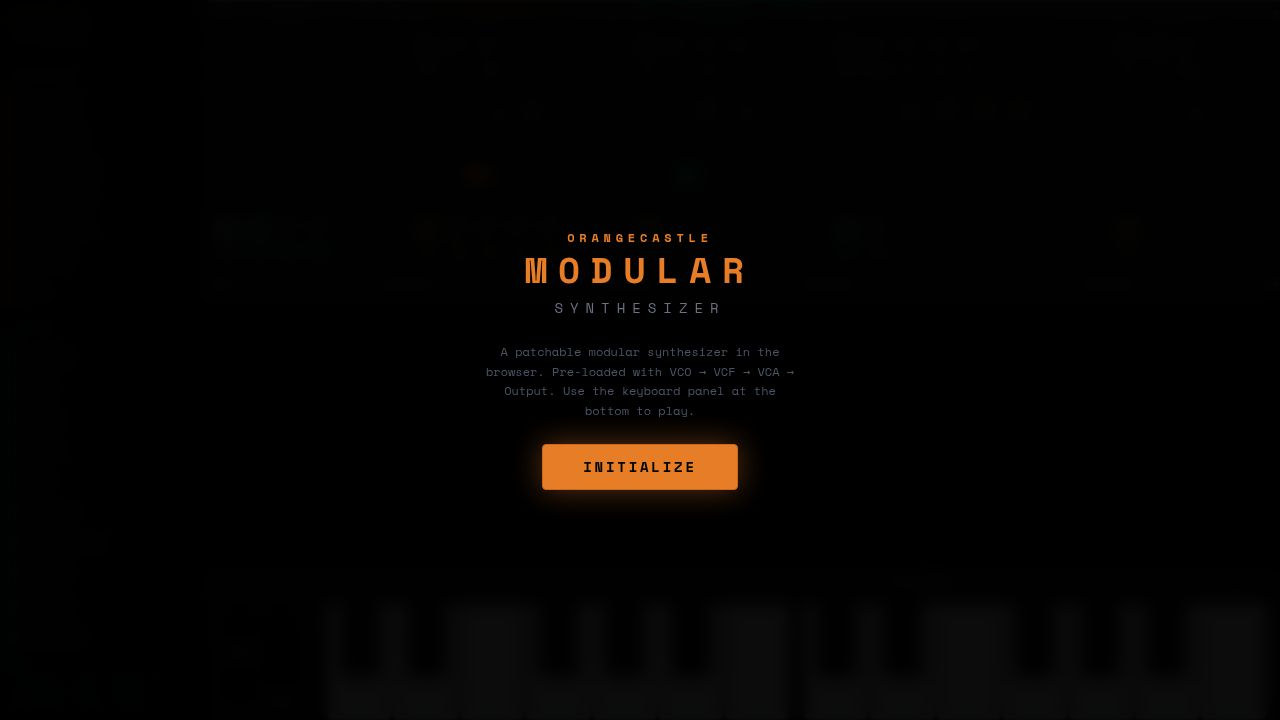
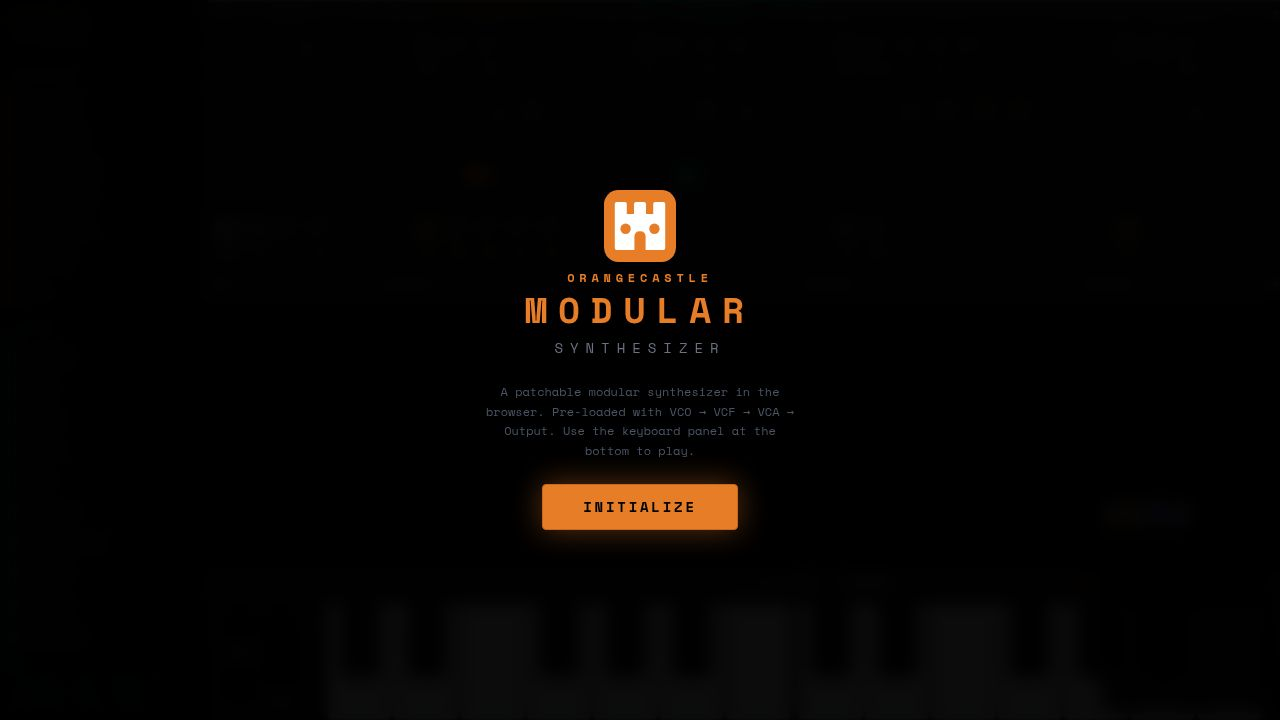
Add a minimap and pan mode to the modular synth interface
Introduce a minimap component for navigation and a pan mode for easier canvas manipulation.

Replit-Commit-Author: Agent
Replit-Commit-Session-Id: 9c9eb7d9-9085-47da-a189-169fb7c718bb
Replit-Commit-Checkpoint-Type: full_checkpoint
Replit-Commit-Event-Id: 4760d34d-3cd2-44ac-a672-b2c29dfe9315
Replit-Commit-Screenshot-Url: https://storage.googleapis.com/screenshot-production-us-central1/338c9ae4-9eaa-4246-b9eb-8b16b2420b90/9c9eb7d9-9085-47da-a189-169fb7c718bb/yjl8Aqb
Replit-Helium-Checkpoint-Created: true

Changed region(s): [[0.375, 0.2444, 0.5938, 0.7639], [0.5938, 0.4889, 0.625, 0.5194]]

diff --git a/artifacts/modular-synth/src/pages/synth-app.tsx b/artifacts/modular-synth/src/pages/synth-app.tsx
@@ -970,6 +970,119 @@ function useMIDI(
   return { status, deviceCount };
 }
 
+// ─── Minimap ──────────────────────────────────────────────────────────────────
+const MINI_W = 164;
+const MINI_H = Math.round(MINI_W * CONTENT_H / CONTENT_W); // ≈205
+
+function Minimap({
+  modules,
+  rackRef,
+}: {
+  modules: ModuleInstance[];
+  rackRef: React.RefObject<HTMLDivElement | null>;
+}) {
+  const scaleX = MINI_W / CONTENT_W;
+  const scaleY = MINI_H / CONTENT_H;
+  const [scroll, setScroll]   = useState({ left: 0, top: 0 });
+  const [viewSize, setViewSize] = useState({ w: 0, h: 0 });
+  const miniDragRef = useRef(false);
+
+  useEffect(() => {
+    const el = rackRef.current;
+    if (!el) return;
+    const update = () => {
+      setScroll({ left: el.scrollLeft, top: el.scrollTop });
+      setViewSize({ w: el.clientWidth, h: el.clientHeight });
+    };
+    update();
+    el.addEventListener('scroll', update, { passive: true });
+    window.addEventListener('resize', update, { passive: true });
+    return () => {
+      el.removeEventListener('scroll', update);
+      window.removeEventListener('resize', update);
+    };
+  }, [rackRef]);
+
+  const navigateTo = (e: React.MouseEvent<HTMLDivElement>) => {
+    const el = rackRef.current;
+    if (!el) return;
+    const rect = e.currentTarget.getBoundingClientRect();
+    const mx = e.clientX - rect.left;
+    const my = e.clientY - rect.top;
+    el.scrollLeft = Math.max(0, mx / scaleX - viewSize.w / 2);
+    el.scrollTop  = Math.max(0, my / scaleY - Math.max(0, viewSize.h - KB_H) / 2);
+  };
+
+  const vpW = Math.min(MINI_W, viewSize.w * scaleX);
+  const vpH = Math.min(MINI_H, Math.max(0, viewSize.h - KB_H) * scaleY);
+
+  return (
+    <div
+      style={{
+        position: 'absolute', bottom: 12, right: 12,
+        width: MINI_W, height: MINI_H,
+        background: 'rgba(8,8,8,0.93)',
+        border: '1px solid #2a2a2a',
+        borderRadius: 4,
+        overflow: 'hidden',
+        cursor: 'crosshair',
+        zIndex: 40,
+        boxShadow: '0 4px 20px rgba(0,0,0,0.75)',
+        userSelect: 'none',
+      }}
+      onMouseDown={e => { miniDragRef.current = true; navigateTo(e); e.stopPropagation(); }}
+      onMouseMove={e => { if (miniDragRef.current) navigateTo(e); }}
+      onMouseUp={() => { miniDragRef.current = false; }}
+      onMouseLeave={() => { miniDragRef.current = false; }}
+    >
+      {/* Row grid lines */}
+      {Array.from({ length: Math.ceil(CONTENT_H / SLOT_H) }, (_, i) => (
+        <div key={i} style={{
+          position: 'absolute', left: 0, right: 0,
+          top: Math.round(i * SLOT_H * scaleY), height: 1,
+          background: '#181818', pointerEvents: 'none',
+        }} />
+      ))}
+
+      {/* Module rects */}
+      {modules.map(m => {
+        const def   = MODULE_TYPE_MAP.get(m.typeId);
+        const mw    = def?.width ?? SLOT_W;
+        const color = CATEGORY_COLORS[def?.category ?? ''] ?? '#444';
+        return (
+          <div key={m.id} style={{
+            position: 'absolute',
+            left:   Math.round(m.x * scaleX),
+            top:    Math.round(m.y * scaleY),
+            width:  Math.max(2, Math.round(mw * scaleX) - 1),
+            height: Math.max(2, Math.round(SLOT_H * scaleY) - 1),
+            background: color, opacity: 0.8, borderRadius: 1,
+            pointerEvents: 'none',
+          }} />
+        );
+      })}
+
+      {/* Viewport rect */}
+      <div style={{
+        position: 'absolute',
+        left:   Math.round(scroll.left * scaleX),
+        top:    Math.round(scroll.top  * scaleY),
+        width:  vpW, height: vpH,
+        border: '1px solid rgba(232,125,39,0.9)',
+        background: 'rgba(232,125,39,0.07)',
+        borderRadius: 2, pointerEvents: 'none',
+      }} />
+
+      {/* Label */}
+      <div style={{
+        position: 'absolute', bottom: 3, right: 5,
+        fontSize: 6, letterSpacing: '0.14em', color: '#2e2e2e',
+        textTransform: 'uppercase', pointerEvents: 'none',
+      }}>MINIMAP</div>
+    </div>
+  );
+}
+
 // ─── Main App ─────────────────────────────────────────────────────────────────
 export default function SynthApp() {
   const [started,         setStarted]         = useState(false);
@@ -1076,6 +1189,16 @@ export default function SynthApp() {
     moduleId: string; startX: number; startY: number; origX: number; origY: number;
     origScrollLeft: number; origScrollTop: number;
   } | null>(null);
+
+  // ─── Pan mode ────────────────────────────────────────────────────────────────
+  const [panMode, setPanMode]   = useState(false);
+  const panModeRef              = useRef(false);   // effective value (button OR space held)
+  const panDragRef              = useRef<{
+    startX: number; startY: number; origScrollLeft: number; origScrollTop: number;
+  } | null>(null);
+
+  // Keep panModeRef current whenever the button-toggled state changes
+  useEffect(() => { panModeRef.current = panMode; }, [panMode]);
 
   // ─── Port DOM refs ──────────────────────────────────────────────────────────
   const registerPortRef = useCallback((key: string, el: HTMLDivElement | null) => {
@@ -1765,7 +1888,19 @@ export default function SynthApp() {
   }, [cables, modules, getPortCenter]);
 
   // ─── Drag (snap on release) ─────────────────────────────────────────────────
+  const handleRackMouseDown = useCallback((e: React.MouseEvent<HTMLDivElement>) => {
+    if (!panModeRef.current) return;
+    if (e.button !== 0) return;
+    e.preventDefault();
+    panDragRef.current = {
+      startX: e.clientX, startY: e.clientY,
+      origScrollLeft: rackRef.current?.scrollLeft ?? 0,
+      origScrollTop:  rackRef.current?.scrollTop  ?? 0,
+    };
+  }, []);
+
   const handleDragStart = useCallback((moduleId: string, e: React.MouseEvent) => {
+    if (panModeRef.current) return; // pan mode — don't drag modules
     e.preventDefault();
     const mod = modules.find(m => m.id === moduleId);
     if (!mod) return;
@@ -1829,6 +1964,12 @@ export default function SynthApp() {
     const onMouseMove = (e: MouseEvent) => {
       lastMouse = { x: e.clientX, y: e.clientY };
 
+      // Pan drag — scroll the rack canvas
+      if (panDragRef.current && rackRef.current) {
+        rackRef.current.scrollLeft = panDragRef.current.origScrollLeft - (e.clientX - panDragRef.current.startX);
+        rackRef.current.scrollTop  = panDragRef.current.origScrollTop  - (e.clientY - panDragRef.current.startY);
+      }
+
       // Cable-tail position: only update when actively patching, throttled to RAF rate.
       // Avoids full SynthApp re-renders from every mousemove when no cable is pending.
       if (pendingCableRef.current && !cableRafId) {
@@ -1867,6 +2008,7 @@ export default function SynthApp() {
     };
 
     const onMouseUp = () => {
+      panDragRef.current = null; // clear pan drag on any mouse-up
       if (edgeRafId)  { cancelAnimationFrame(edgeRafId);  edgeRafId  = 0; }
       if (dragRafId)  { cancelAnimationFrame(dragRafId);  dragRafId  = 0; }
       if (cableRafId) { cancelAnimationFrame(cableRafId); cableRafId = 0; }
@@ -1903,6 +2045,28 @@ export default function SynthApp() {
     window.addEventListener('keydown', onKey);
     return () => window.removeEventListener('keydown', onKey);
   }, [handleUndo, handleSavePatch, handleLoadClick]);
+
+  // Space = hold to temporarily activate pan mode (no re-render needed, just ref)
+  useEffect(() => {
+    const onDown = (e: KeyboardEvent) => {
+      if (e.code !== 'Space' || e.repeat) return;
+      const t = e.target as Element | null;
+      if (t instanceof HTMLInputElement || t instanceof HTMLTextAreaElement) return;
+      e.preventDefault();
+      panModeRef.current = true;
+    };
+    const onUp = (e: KeyboardEvent) => {
+      if (e.code !== 'Space') return;
+      panModeRef.current = panMode; // restore to button-toggled value
+      panDragRef.current = null;    // cancel any in-flight pan drag
+    };
+    window.addEventListener('keydown', onDown);
+    window.addEventListener('keyup',   onUp);
+    return () => {
+      window.removeEventListener('keydown', onDown);
+      window.removeEventListener('keyup',   onUp);
+    };
+  }, [panMode]);
 
   // Legacy keyboard handler (for any keyboard module instances in modules list — none by default)
   const handleModuleKeyPress = useCallback((moduleId: string, freq: number, on: boolean) => {
@@ -2041,14 +2205,48 @@ export default function SynthApp() {
 
       <ModuleBrowser onAdd={handleAddModule} />
 
-      {/* Rack — bottom-padded so modules aren't hidden behind the fixed keyboard */}
-      <div
-        ref={rackRef}
-        className="flex-1 overflow-auto relative rack-bg"
-        style={{ paddingBottom: KB_H }}
-        onClick={() => { if (pendingCable) setPendingCable(null); }}
-        data-testid="rack-workspace"
-      >
+      {/* Rack viewport wrapper — relative so pan button + minimap are fixed to viewport */}
+      <div className="flex-1 relative overflow-hidden">
+
+        {/* Pan mode toggle button */}
+        <button
+          title={panMode ? 'Pan mode ON — click to exit (or hold Space)' : 'Pan mode — drag to scroll canvas (or hold Space)'}
+          onClick={() => setPanMode(m => !m)}
+          style={{
+            position: 'absolute', top: 12, right: 12,
+            zIndex: 42, display: 'flex', alignItems: 'center', gap: 5,
+            padding: '0 9px', height: 24,
+            fontSize: 7, fontFamily: 'monospace', fontWeight: 700,
+            letterSpacing: '0.18em', textTransform: 'uppercase',
+            borderRadius: 3, cursor: 'pointer',
+            border: panMode ? '1px solid #c96a1a' : '1px solid #2e2e2e',
+            background: panMode ? '#e87d27' : '#181818',
+            color: panMode ? '#000' : '#555',
+            boxShadow: panMode ? '0 0 10px rgba(232,125,39,0.35)' : 'none',
+            transition: 'all 0.15s',
+          }}
+        >
+          <svg width="10" height="10" viewBox="0 0 24 24" fill="currentColor">
+            <path d="M9 3a1 1 0 0 0-1 1v4H6.5A1.5 1.5 0 0 0 5 9.5v.5a1 1 0 0 0 0 2v1a1 1 0 0 0 0 2v.5A4.5 4.5 0 0 0 9.5 20h3a4.5 4.5 0 0 0 4.5-4.5V11a1 1 0 0 0-2 0v-1.5A1.5 1.5 0 0 0 13.5 8H13V4a1 1 0 0 0-1-1H9z"/>
+          </svg>
+          PAN
+        </button>
+
+        {/* Minimap */}
+        <Minimap modules={modules} rackRef={rackRef} />
+
+        {/* Scrollable canvas */}
+        <div
+          ref={rackRef}
+          className="absolute inset-0 overflow-auto rack-bg"
+          style={{
+            paddingBottom: KB_H,
+            cursor: panMode ? 'grab' : 'default',
+          }}
+          onClick={() => { if (pendingCable) setPendingCable(null); }}
+          onMouseDown={handleRackMouseDown}
+          data-testid="rack-workspace"
+        >
         <div className="relative" style={{ width: CONTENT_W, height: CONTENT_H }}>
           <PatchCables
             cables={cables}
@@ -2110,7 +2308,8 @@ export default function SynthApp() {
             </div>
           )}
         </div>
-      </div>
+        </div>{/* /scrollable rack */}
+      </div>{/* /rack viewport wrapper */}
 
       {/* Save patch name dialog */}
       {saveDialogOpen && (